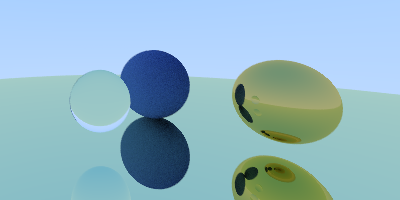
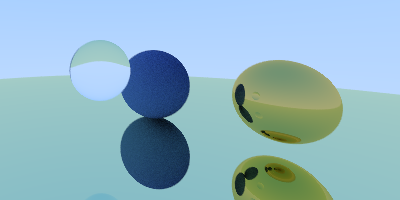
cannot continue because of a stack overflows?..

diff --git a/src/materials.rs b/src/materials.rs
@@ -101,15 +101,16 @@ impl Refractive {
         v - 2.0 * v.dot(n) * n
     }
 
-    fn refract(uv: Vec3, n: Vec3, ni_over_nt: f32) -> Option<Vec3> {
+    fn refract(uv: Vec3, n: Vec3, refraction_ratio: f32) -> Option<Vec3> {
         let dot = uv.dot(n);
-        let discriminant = 1.0 - ni_over_nt.powi(2) * (1.0 - dot * dot);
+        let discriminant = 1.0 - refraction_ratio.powi(2) * (1.0 - dot * dot);
         if discriminant > 0.0 {
-            return Some(ni_over_nt * (uv - n * dot) - n * discriminant.sqrt());
+            return Some(refraction_ratio * (uv - n * dot) - n * discriminant.sqrt());
         }
         None
     }
 
+    /// Simplified Schlick algorithm for reflectance
     fn shlick(cosine: f32, ref_idx: f32) -> f32 {
         let r0 = (1.0 - ref_idx) / (1.0 + ref_idx);
         let r0 = r0 * r0;
@@ -120,21 +121,33 @@ impl Refractive {
 impl Material for Refractive {
     /// It's interesting that the following code overflows stack sometimes...
     /// At least in my laptop.
-    fn scatter(&self, r_in: &Ray, hit: &Hit) -> Option<(Vec3, Ray)> {
-        let reflected = Self::reflect(r_in.direction().unit_vec(), hit.normal);
-        let (outward_normal, ni_over_nt) = if r_in.direction().dot(hit.normal) > 0.0 {
-            (-hit.normal, self.refractive_index)
+    fn scatter(&self, ray: &Ray, hit: &Hit) -> Option<(Vec3, Ray)> {
+        let reflected = Self::reflect(ray.direction().unit_vec(), hit.normal);
+        let (outward_normal, refraction_ratio, cosine) = if ray.direction().dot(hit.normal) > 0.0 {
+            (
+                -hit.normal,
+                self.refractive_index,
+                self.refractive_index * ray.direction().dot(hit.normal) / ray.direction().length(),
+            )
         } else {
-            (hit.normal, 1.0 / self.refractive_index)
+            (
+                hit.normal,
+                1.0 / self.refractive_index,
+                -ray.direction().dot(hit.normal) / ray.direction().length(),
+            )
         };
-        let refracted = Self::refract(r_in.direction(), outward_normal, ni_over_nt);
-        let attenuation = Vec3::new(1.0, 1.0, 1.0);
-        if let Some(refracted) = refracted {
-            return Some((attenuation, Ray::new(hit.p, refracted)));
+        let refracted = Self::refract(ray.direction(), outward_normal, refraction_ratio);
+        let attenuation = Vec3::splat(1.0);
+        let default_scattered = Ray::new(hit.p, reflected);
+        let random = rand::thread_rng().gen_range(0.0..1.0);
+        let prob = refracted
+            .map(|_| Self::shlick(cosine, self.refractive_index))
+            .unwrap_or(1.0);
+        let refracted = refracted.unwrap_or(Vec3::splat(0.5));
+        if random < prob {
+            return Some((attenuation, default_scattered));
         } else {
-            // In this branch Peter returns false.
-            // It's important to keep the expected behavior
-            return Some((attenuation, Ray::new(hit.p, reflected)));
+            return Some((attenuation, Ray::new(hit.p, refracted)));
         }
         // refracted
         //     .map(|refracted| Some((attenuation, Ray::new(hit.p, refracted))))

diff --git a/src/main.rs b/src/main.rs
@@ -16,7 +16,6 @@ fn world<'a>() -> Vec<BoxedSurface> {
     let mut world: Vec<BoxedSurface> = vec![];
 
     let diffuse = Box::new(Lambertian::new(Vec3::new(0.1, 0.2, 0.5)));
-    // let diffuse2 = Box::new(Lambertian::new(Vec3::new(0.8, 0.8, 0.0)));
     let reflective1 = Box::new(Reflective::new(Vec3::new(0.8, 0.9, 0.6)));
     let reflective2 = Box::new(Reflective::new(Vec3::new(0.8, 0.6, 0.2)));
     let refractive = Box::new(Refractive::new(1.5));
@@ -28,7 +27,7 @@ fn world<'a>() -> Vec<BoxedSurface> {
     )));
 
     world.push(Box::new(Sphere::new(
-        Vec3::new(-1.0, 0.0, -1.0),
+        Vec3::new(-1.0, 0.3, -1.0),
         0.3,
         refractive,
     )));

diff --git a/src/parallel.rs b/src/parallel.rs
@@ -7,7 +7,7 @@ pub const DIM: f32 = 200.0;
 pub const HEIGHT: f32 = DIM;
 pub const WIDTH: f32 = DIM * 2.0;
 pub const ANTIALIASING: i32 = 50;
-pub const DEPTH: i32 = 3;
+pub const DEPTH: i32 = 1;
 
 /// The heavy lifting starts here.
 /// This function allocates with size exactly if images pixels
